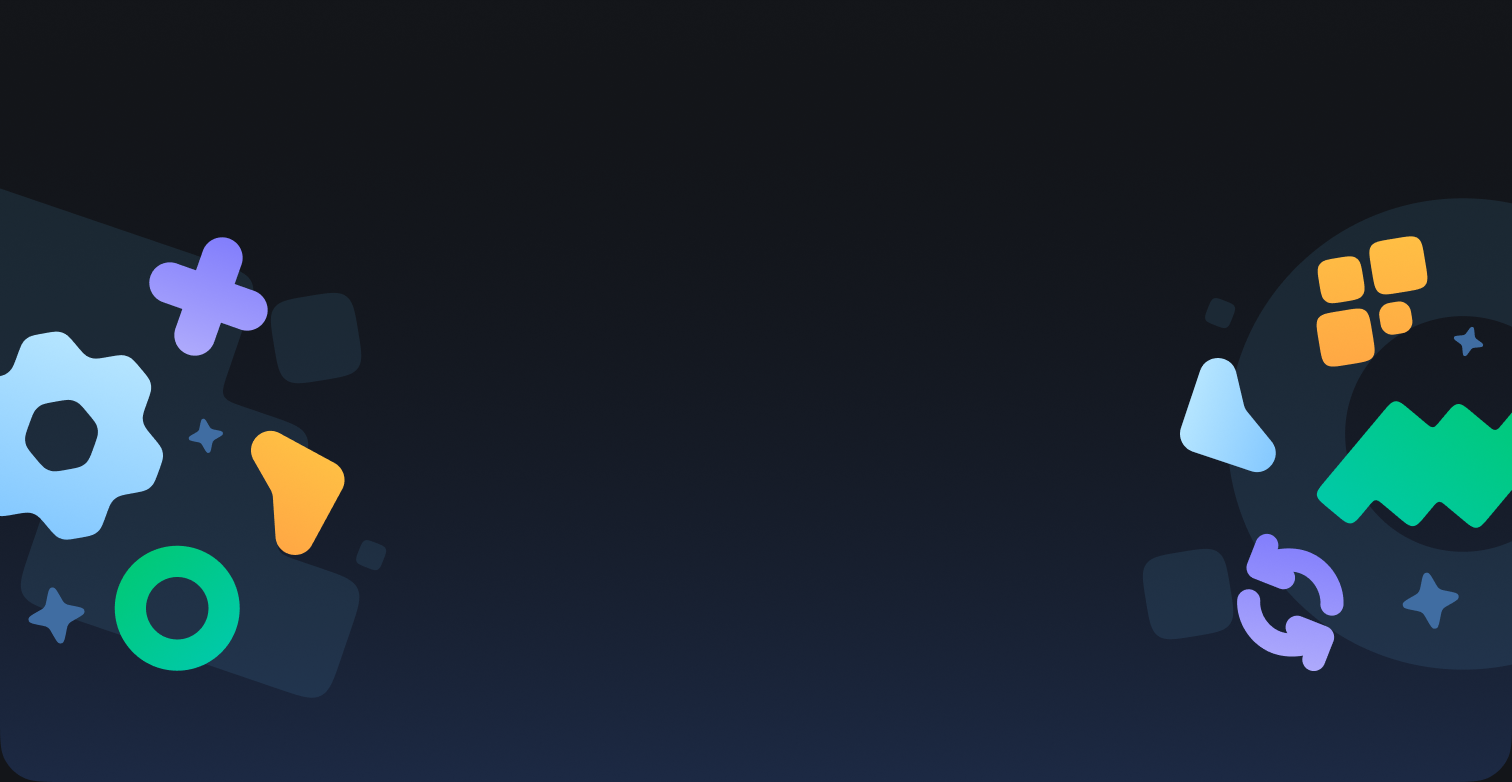
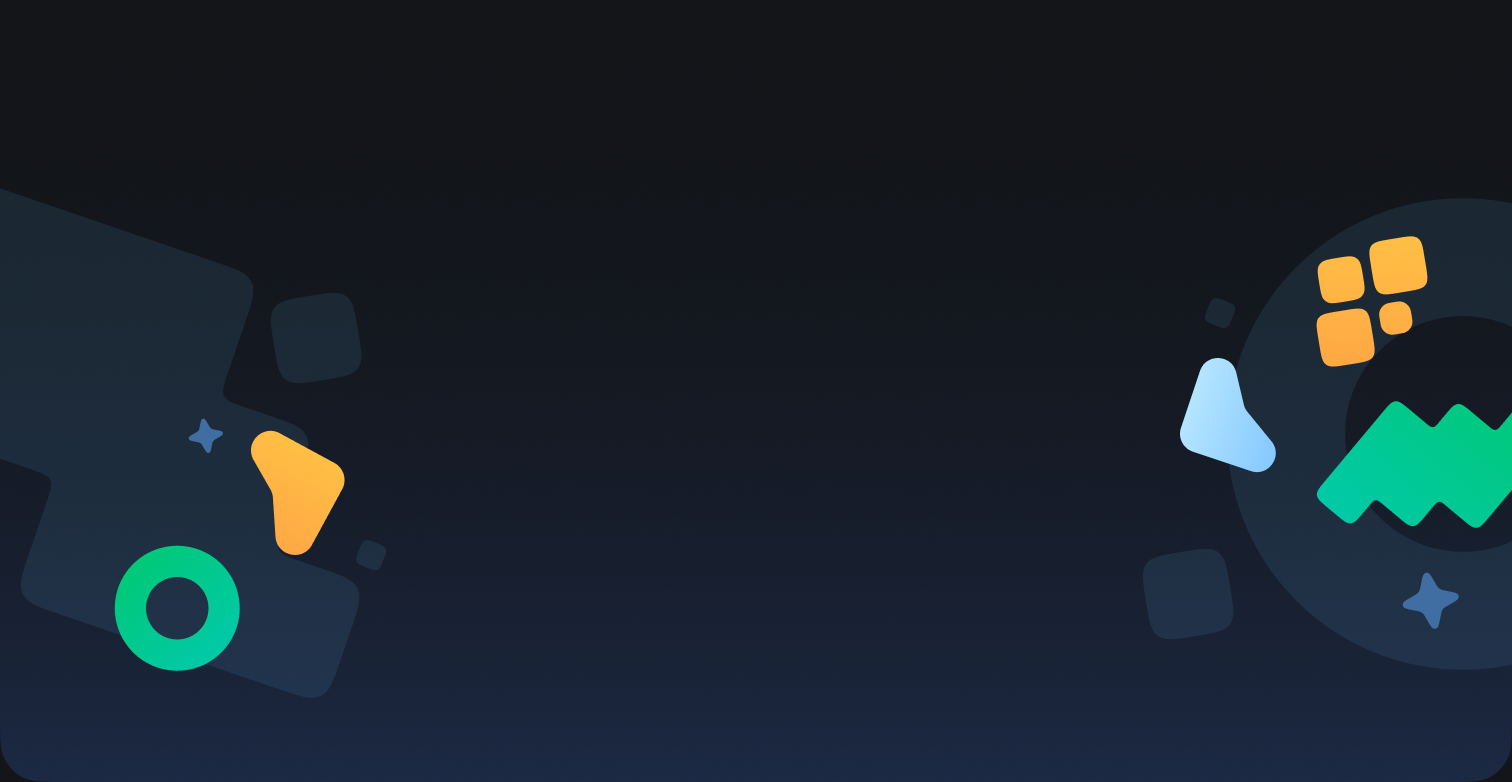
v4.6

diff --git a/src/components/LandingPage.module.css b/src/components/LandingPage.module.css
@@ -178,7 +178,106 @@
   font-size: 1rem;
   color: #DAEEFE;
 }
+
+.starLeft {
+  position: absolute;
+  bottom: 10%;
+  left: 2.5%;
+  width: 40px;
+  height: auto;
+  z-index: 2;
+  animation: blinkZoomPause 3.5s ease-in-out infinite;
+  transform-origin: center center;
+}
+
+.starRight {
+  position: absolute;
+  bottom: 50%;
+  right: 2%;
+  width: 40px;
+  height: auto;
+  z-index: 2;
+  animation: blinkZoomPause 3.5s ease-in-out infinite;
+  transform-origin: center center;
+}
+
+.elementLeft {
+  position: absolute;
+  bottom: 30%;
+  left: -2%;
+  width: 200px;
+  height: auto;
+  z-index: 2;
+  animation: spinPause 4s linear infinite;
+}
+
+.elementRight {
+  position: absolute;
+  bottom: 8%;
+  right: 10%;
+  width: 100px;
+  height: auto;
+  z-index: 2;
+  animation: spinReverseZoomPause 4s ease-in-out infinite;
+  transform-origin: center center;
   
+}
+
+@keyframes spinPause {
+  0% {
+    transform: rotate(0deg);
+  }
+  80% {
+    transform: rotate(360deg);
+  }
+  100% {
+    transform: rotate(360deg); /* pause at 360deg */
+  }
+}
+
+@keyframes blinkZoomPause {
+  0% {
+    opacity: 1;
+    transform: scale(1);
+  }
+  40% {
+    opacity: 0.6;
+    transform: scale(1.3);
+  }
+  80% {
+    opacity: 1;
+    transform: scale(1);
+  }
+  100% {
+    opacity: 1;
+    transform: scale(1); /* pause in final state */
+  }
+}
+
+@keyframes spinReverseZoomPause {
+  0% {
+    transform: rotate(0deg) scale(1);
+  }
+  20% {
+    transform: rotate(270deg) scale(1);
+  }
+  50% {
+    transform: rotate(-200deg) scale(1);
+  }
+  70% {
+    transform: rotate(-220deg) scale(1.1);
+  }
+  85% {
+    transform: rotate(0deg) scale(1); /* reset */
+  }
+  100% {
+    transform: rotate(0deg) scale(1); /* hold */
+  }
+}
+
+
+
+
 /* Tablet Styles */
 @media (max-width: 1024px) {
   .title {
@@ -260,3 +359,4 @@
     font-size: 0.85rem;
   }
 }
+

diff --git a/src/components/LandingPage.jsx b/src/components/LandingPage.jsx
@@ -4,6 +4,10 @@ import Navbar from './Navbar';
 import styles from './LandingPage.module.css';
 import topOverlay from '../assets/top-overlay.png';
 import { FaRegCopy, FaCheck , FaGithub} from 'react-icons/fa';
+import starLeft from '../assets/star-left.png';
+import starRight from '../assets/star-right.png';
+import elementLeft from '../assets/element-left.png';
+import elementRight from '../assets/element-right.png';
 
 const LandingPage = () => {
 
@@ -20,6 +24,10 @@ const LandingPage = () => {
     
     <div className={styles.container}>
     <Navbar/>
+      <img src={starLeft} alt="Star Left" className={styles.starLeft} />
+      <img src={starRight} alt="Star Right" className={styles.starRight} />
+      <img src={elementLeft} alt="Element Left" className={styles.elementLeft} />
+      <img src={elementRight} alt="Element Right" className={styles.elementRight} />
       <img src={topOverlay} alt="Top Overlay" className={styles.topOverlay} />
       <div className={styles.content}>
       <div className={styles.commandBox} onClick={handleCopy}>

diff --git a/index.html b/index.html
@@ -2,7 +2,7 @@
 <html lang="en">
   <head>
     <meta charset="UTF-8" />
-    <link rel="icon" type="image/svg+xml" href="/vite.svg" />
+    <link rel="icon" type="image/svg+xml" href="/public/logo.png" />
     <link href="https://fonts.googleapis.com/css2?family=Inter:wght@300&display=swap" rel="stylesheet" />
 
     <meta name="viewport" content="width=device-width, initial-scale=1.0" />
